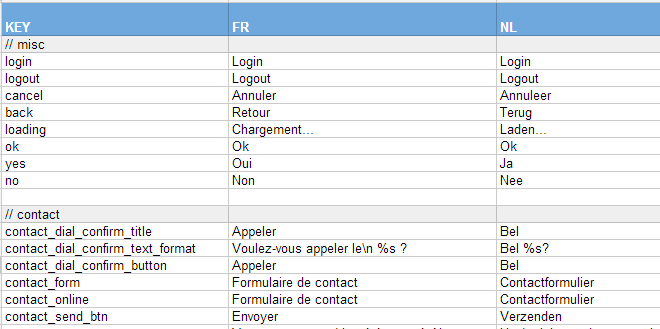
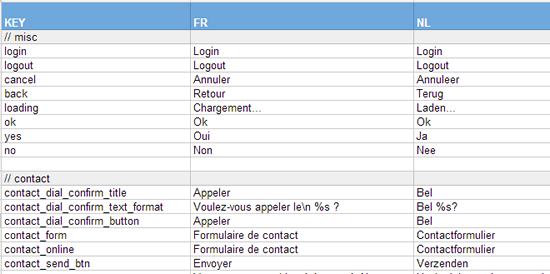
Resize doc images

diff --git a/README.md b/README.md
@@ -13,8 +13,8 @@ The tool fetch the spreadsheet and write the result to a file in the Android or 
 ![Result android](doc/result-android.png) ![Result iOS](doc/result-ios.png)
 
 Create a file update-localization.js
-	var Gs2File = require("localize-with-spreadsheet");
 
+	var Gs2File = require("localize-with-spreadsheet");
     var transformer = Gs2File.fromGoogleSpreadsheet("0Aq6WlQdq71FydDZlaWdmMEUtc2tUb1k2cHRBS2hzd2c", '*');
     transformer.setKeyCol('KEY');
 
@@ -23,6 +23,10 @@ Create a file update-localization.js
 
     transformer.save("nl.lproj/Localizable.strings", { valueCol: "NL", format: "ios" });
     transformer.save("fr.lproj/Localizable.strings", { valueCol: "FR", format: "ios" });
+
+Run it with
+
+    node update-localization.js
 
 ## Advanced
 You can filter the worksheets to include with the second parameter of 'fromGoogleSpreadsheet'
